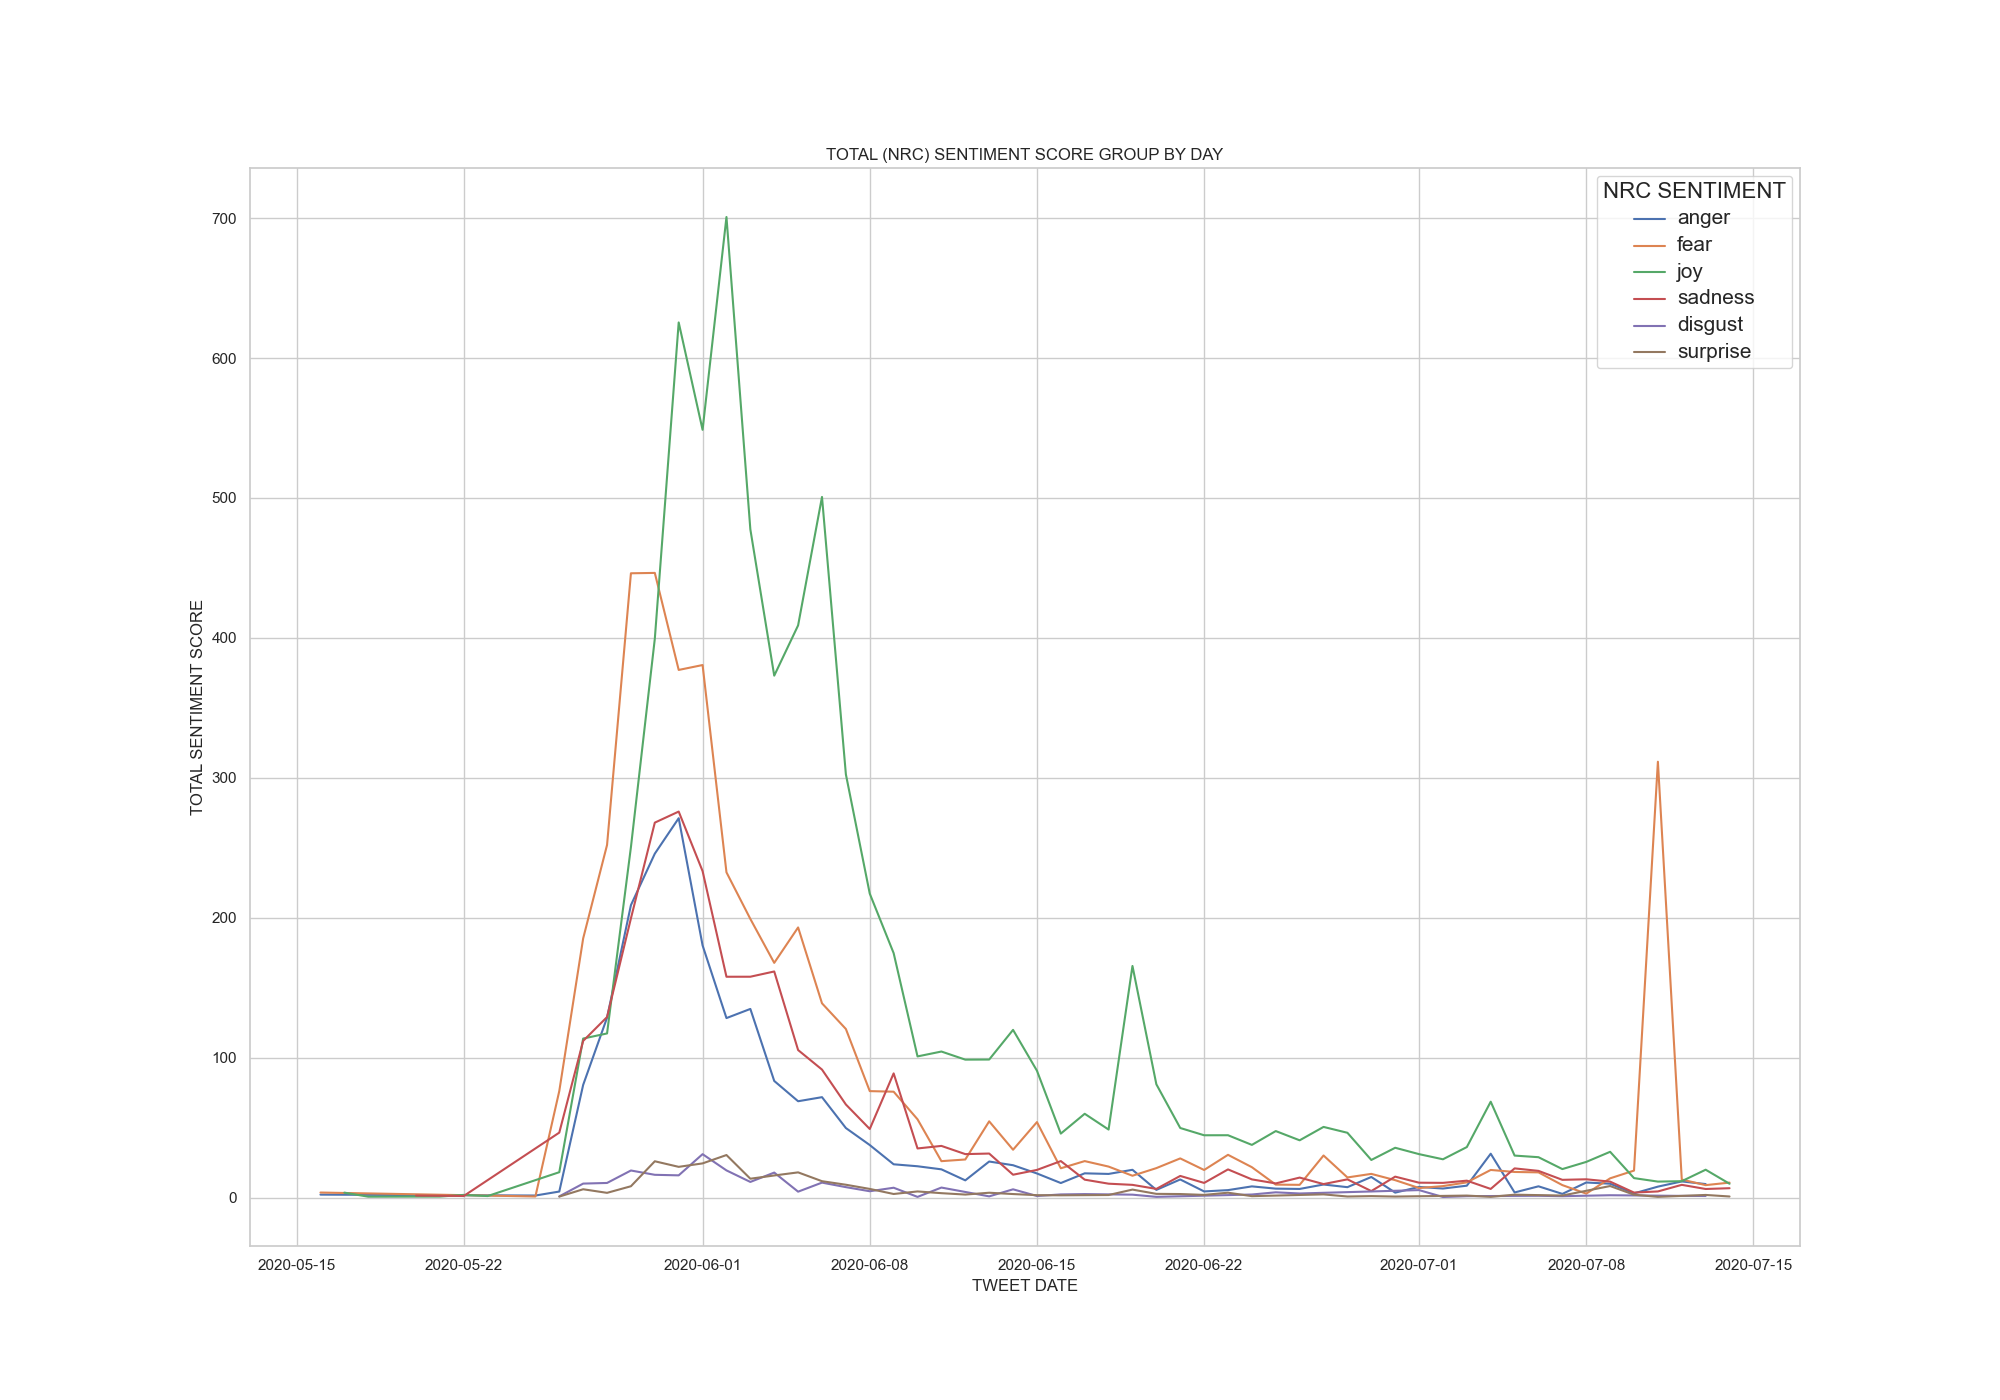
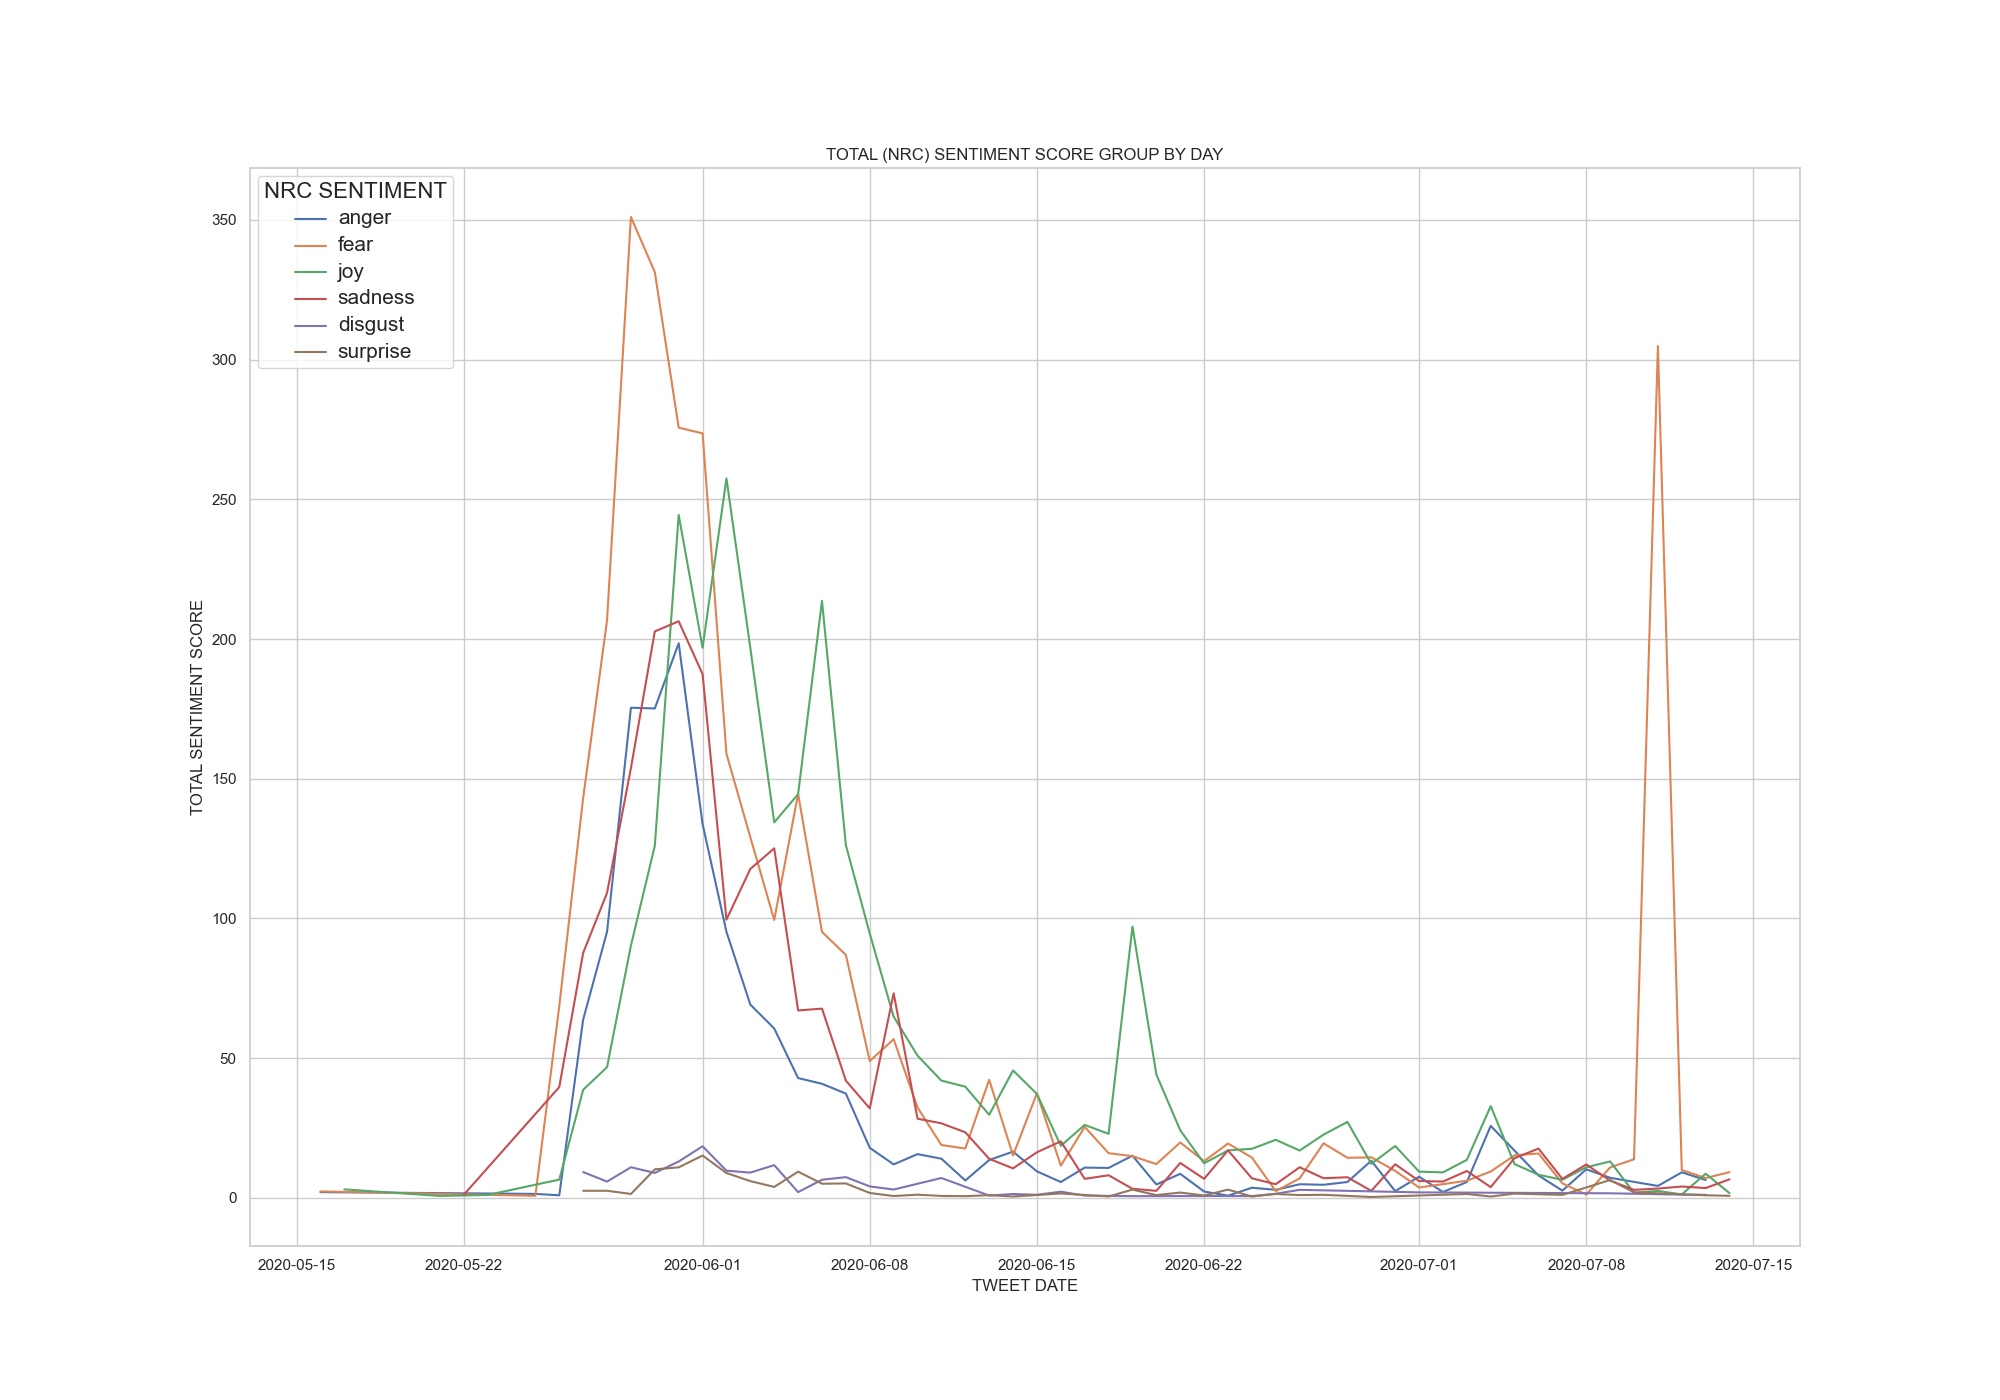
update files and img

diff --git a/Controller/Visualization/LinePlotViz.py b/Controller/Visualization/LinePlotViz.py
@@ -4,6 +4,9 @@ import matplotlib.pyplot as plt
 from Helper import FolderHelper
 
 # SETTING
+from Lexicon.DepecheMood import DepecheMoodController
+from Lexicon.NRC import NrcController
+
 plot_name = "lineplot"
 
 
@@ -58,7 +61,7 @@ def plot(y_attr, x_attr, g_attr, df, y_attr_title, x_attr_title, title, legend_t
     plt.close()
 
 
-def plot_sentiment_day_key_with_period(df, lexicon_name, dir_path, is_standard, selected_key, n_start_date, n_end_date):
+def plot_sentiment_day_key_with_period(df, lexicon_name, dir_path, selected_key, n_start_date, n_end_date, include_standard):
 
     # PARAMETER
     senti_name = "{}_sentiment".format(lexicon_name)
@@ -69,22 +72,35 @@ def plot_sentiment_day_key_with_period(df, lexicon_name, dir_path, is_standard, 
     x_attr_title = "Tweet Date"
     title = "Total ({}) Sentiment {} Group by Day ({} to {})".format(lexicon_name, selected_key, n_start_date, n_end_date)
     legend_title = "{} Sentiment".format(lexicon_name.upper())
-    output_file = plot_folder_path(dir_path, is_standard, lexicon_name) + "{}_lineplot_by_day_by_period".format(selected_key)
 
-    # GENERATE DATAFRAME
+    # FILTER
     start_date = datetime.strptime(n_start_date, "%Y-%m-%d").date()
     end_date = datetime.strptime(n_end_date, "%Y-%m-%d").date()
-    mask = (df['tweet_created_date'] > start_date) & (df['tweet_created_date'] <= end_date)
-    df = df.loc[mask]
-    f_df = df[["tweet_created_date", senti_name, senti_key]].groupby(["tweet_created_date", senti_name], as_index=False).sum()
+    df = df.loc[(df['tweet_created_date'] > start_date) & (df['tweet_created_date'] <= end_date)]
 
-    # CREATE LINE PLOT
-    plot(senti_key, "tweet_created_date", senti_name, f_df, y_attr_title, x_attr_title, title, legend_title, output_file, "linear")
-    plot(senti_key, "tweet_created_date", senti_name, f_df, y_attr_title, x_attr_title, title, legend_title, output_file, "log")
-    plot_facet_grid(senti_key, "tweet_created_date", senti_name, f_df, output_file)
+    # INDIVIDUAL
+    df_i = df[["tweet_created_date", senti_name, senti_key]].groupby(["tweet_created_date", senti_name], as_index=False).sum()
+    output_file = plot_folder_path(dir_path, False, lexicon_name) + "{}_{}_by_day_by_period".format(selected_key, plot_name)
+    plot(senti_key, "tweet_created_date", senti_name, df_i, y_attr_title, x_attr_title, title, legend_title, output_file, "linear")
+    plot(senti_key, "tweet_created_date", senti_name, df_i, y_attr_title, x_attr_title, title, legend_title, output_file, "log")
+    plot_facet_grid(senti_key, "tweet_created_date", senti_name, df_i, output_file)
+
+    # STANDARD
+    if include_standard:
+        if lexicon_name == "nrc":
+            df_s = NrcController.get_standard_model(df)
+        elif lexicon_name == "dpm":
+            df_s = DepecheMoodController.get_standard_model(df)
+
+        # PLOT
+        output_file = plot_folder_path(dir_path, True, lexicon_name) + "{}_{}_by_day_by_period".format(selected_key, plot_name)
+        df_s = df_s[["tweet_created_date", senti_name, senti_key]].groupby(["tweet_created_date", senti_name], as_index=False).sum()
+        plot(senti_key, "tweet_created_date", senti_name, df_s, y_attr_title, x_attr_title, title, legend_title, output_file, "linear")
+        plot(senti_key, "tweet_created_date", senti_name, df_s, y_attr_title, x_attr_title, title, legend_title, output_file, "log")
+        plot_facet_grid(senti_key, "tweet_created_date", senti_name, df_s, output_file)
 
 
-def plot_sentiment_day_key_with_intensity(df, lexicon_name, dir_path, is_standard, selected_key, min_intensity):
+def plot_sentiment_day_key_with_intensity(df, lexicon_name, dir_path, selected_key, min_intensity, include_standard):
 
     # PARAMETER
     senti_name = "{}_sentiment".format(lexicon_name)
@@ -95,17 +111,31 @@ def plot_sentiment_day_key_with_intensity(df, lexicon_name, dir_path, is_standar
     xAttrTitle = "Tweet Date"
     title = "Total ({}) Sentiment {} Group by Day With Intensity ({})".format(lexicon_name, selected_key, min_intensity)
     legend_title = "{} Sentiment".format(lexicon_name.upper())
-    output_file = plot_folder_path(dir_path, is_standard, lexicon_name) + "{}_lineplot_by_day_with_intensity".format(selected_key)
 
-    # GENERATE DATAFRAME
-    f_df = df[["tweet_created_date", senti_name, senti_key]].groupby(["tweet_created_date", senti_name]).sum()
+    # FILTER
+    df = df.loc[(df[senti_key] > min_intensity)]
 
-    # CREATE LINE PLOT
-    plot(senti_key, "tweet_created_date", senti_name, f_df, yAttrTitle, xAttrTitle, title, legend_title, output_file, "linear")
-    plot(senti_key, "tweet_created_date", senti_name, f_df, yAttrTitle, xAttrTitle, title, legend_title, output_file, "log")
+    # INDIVIDUAL
+    output_file = plot_folder_path(dir_path, False, lexicon_name) + "{}_{}_by_day_with_intensity".format(selected_key, plot_name)
+    df_i = df[["tweet_created_date", senti_name, senti_key]].groupby(["tweet_created_date", senti_name]).sum()
+    plot(senti_key, "tweet_created_date", senti_name, df_i, yAttrTitle, xAttrTitle, title, legend_title, output_file, "linear")
+    plot(senti_key, "tweet_created_date", senti_name, df_i, yAttrTitle, xAttrTitle, title, legend_title, output_file, "log")
+
+    # STANDARD
+    if include_standard:
+        if lexicon_name=="nrc":
+            df_s = NrcController.get_standard_model(df)
+        elif lexicon_name == "dpm":
+            df_s = DepecheMoodController.get_standard_model(df)
+
+        # PLOT
+        output_file = plot_folder_path(dir_path, True, lexicon_name) + "{}_{}_by_day_with_intensity".format(selected_key, plot_name)
+        df_s = df_s[["tweet_created_date", senti_name, senti_key]].groupby(["tweet_created_date", senti_name]).sum()
+        plot(senti_key, "tweet_created_date", senti_name, df_s, yAttrTitle, xAttrTitle, title, legend_title, output_file, "linear")
+        plot(senti_key, "tweet_created_date", senti_name, df_s, yAttrTitle, xAttrTitle, title, legend_title, output_file, "log")
 
 
-def plot_sentiment_day_key(df, lexicon_name, dir_path, is_standard, selected_key):
+def plot_sentiment_day_key(df, lexicon_name, dir_path, selected_key, include_standard):
     # PARAMETER
     senti_name = "{}_sentiment".format(lexicon_name)
     senti_key = "{}_sentiment_{}".format(lexicon_name, selected_key)  # SCORE OR COUNT
@@ -115,16 +145,28 @@ def plot_sentiment_day_key(df, lexicon_name, dir_path, is_standard, selected_key
     xAttrTitle = "Tweet Date"
     title = "Total ({}) Sentiment {} Group by Day".format(lexicon_name, selected_key)
     legend_title = "{} Sentiment".format(lexicon_name.upper())
-    output_file = plot_folder_path(dir_path, is_standard, lexicon_name) + "{}_lineplot_by_day".format(selected_key)
 
-    # GENERATE DATAFRAME
-    f_df = df[["tweet_created_date", senti_name, senti_key]].groupby(["tweet_created_date", senti_name]).sum()
+    # INDIVIDUAL
+    output_file = plot_folder_path(dir_path, False, lexicon_name) + "{}_{}_by_day".format(selected_key, plot_name)
+    df_i = df[["tweet_created_date", senti_name, senti_key]].groupby(["tweet_created_date", senti_name]).sum()
+    plot(senti_key, "tweet_created_date", senti_name, df_i, yAttrTitle, xAttrTitle, title, legend_title, output_file, "linear")
+    plot(senti_key, "tweet_created_date", senti_name, df_i, yAttrTitle, xAttrTitle, title, legend_title, output_file, "log")
 
-    # CREATE LINE PLOT
-    plot(senti_key, "tweet_created_date", senti_name, f_df, yAttrTitle, xAttrTitle, title, legend_title, output_file, "linear")
-    plot(senti_key, "tweet_created_date", senti_name, f_df, yAttrTitle, xAttrTitle, title, legend_title, output_file, "log")
+    # STANDARD
+    if include_standard:
 
+        if lexicon_name=="nrc":
+            df_s = NrcController.get_standard_model(df)
+        elif lexicon_name == "dpm":
+            df_s = DepecheMoodController.get_standard_model(df)
 
+        # PLOT
+        output_file = plot_folder_path(dir_path, True, lexicon_name) + "{}_{}_by_day".format(selected_key, plot_name)
+        df_s = df_s[["tweet_created_date", senti_name, senti_key]].groupby(["tweet_created_date", senti_name]).sum()
+        plot(senti_key, "tweet_created_date", senti_name, df_s, yAttrTitle, xAttrTitle, title, legend_title, output_file, "linear")
+        plot(senti_key, "tweet_created_date", senti_name, df_s, yAttrTitle, xAttrTitle, title, legend_title, output_file, "log")
+
+'''
 def plot_sentiment_hour_key_with_period(df, lexicon_name, dir_path, is_standard, selected_key, n_start_date, n_end_date):
 
     # PARAMETER
@@ -190,37 +232,51 @@ def plot_sentiment_hour_key(df, lexicon_name, dir_path, is_standard, selected_ke
 
     # CREATE LINE PLOT
     plot(senti_key, "tweet_created_hour", senti_name, f_df, yAttrTitle, xAttrTitle, title, legend_title, output_file, "linear")
+'''
 
 
 def reset_plot_folder(dir_path, lexicon_name):
 
-    standard_fdr = "{}img/standard/{}".format(dir_path, plot_name)
-    individual_fdr = "{}img/individual/{}".format(dir_path, plot_name)
+    # MAIN FOLDER (CREATE IF NOT EXIST)
+    standard_fdr = "{}img/standard".format(dir_path)
+    individual_fdr = "{}img/individual".format(dir_path)
+    FolderHelper.create_folder(standard_fdr)
+    FolderHelper.create_folder(individual_fdr)
 
-    #FolderHelper.reset_folder(standard_fdr)
-    #FolderHelper.reset_folder(individual_fdr)
+    # LEXICON FOLDER (RESET)
+    standard_fdr = standard_fdr + "/{}".format(plot_name)
+    individual_fdr = individual_fdr + "/{}".format(plot_name)
+    FolderHelper.create_folder(standard_fdr)
+    FolderHelper.create_folder(individual_fdr)
 
-    FolderHelper.reset_folder("{}/{}".format(standard_fdr, lexicon_name))
-    FolderHelper.reset_folder("{}/{}".format(individual_fdr, lexicon_name))
+    # LEXICON FOLDER (RESET)
+    standard_fdr = standard_fdr + "/{}".format(lexicon_name)
+    individual_fdr = individual_fdr + "/{}".format(lexicon_name)
+    FolderHelper.reset_folder(standard_fdr)
+    FolderHelper.reset_folder(individual_fdr)
 
 
-def plot_sentiment(df, lexicon_name, dir_path, is_standard, min_intensity, start_date, end_date):
+def plot_sentiment(df, lexicon_name, dir_path, min_intensity, start_date, end_date, include_count, include_standard):
 
     # RESET FOLDER
     reset_plot_folder(dir_path, lexicon_name)
 
     # LINE PLOT BY DAY
-    plot_sentiment_day_key(df, lexicon_name, dir_path, is_standard, "score")
-    plot_sentiment_day_key(df, lexicon_name, dir_path, is_standard, "count")
-    plot_sentiment_day_key_with_intensity(df, lexicon_name, dir_path, is_standard, "score", min_intensity)
-    plot_sentiment_day_key_with_intensity(df, lexicon_name, dir_path, is_standard, "count", min_intensity)
-    plot_sentiment_day_key_with_period(df, lexicon_name, dir_path, is_standard, "score", start_date, end_date)
-    plot_sentiment_day_key_with_period(df, lexicon_name, dir_path, is_standard, "count", start_date, end_date)
+    plot_sentiment_day_key(df, lexicon_name, dir_path, "score", include_standard)
+    plot_sentiment_day_key_with_intensity(df, lexicon_name, dir_path, "score", min_intensity, include_standard)
+    plot_sentiment_day_key_with_period(df, lexicon_name, dir_path, "score", start_date, end_date, include_standard)
 
+    if include_count:
+        plot_sentiment_day_key(df, lexicon_name, dir_path, "count", include_standard)
+        plot_sentiment_day_key_with_intensity(df, lexicon_name, dir_path, "count", min_intensity, include_standard)
+        plot_sentiment_day_key_with_period(df, lexicon_name, dir_path, "count", start_date, end_date, include_standard)
+
+    '''
     # LINE PLOT BY HOUR
-    plot_sentiment_hour_key(df, lexicon_name, dir_path, is_standard, "score")
-    plot_sentiment_hour_key(df, lexicon_name, dir_path, is_standard, "count")
-    plot_sentiment_hour_key_with_intensity(df, lexicon_name, dir_path, is_standard, "score", min_intensity)
-    plot_sentiment_hour_key_with_intensity(df, lexicon_name, dir_path, is_standard, "count", min_intensity)
-    plot_sentiment_hour_key_with_period(df, lexicon_name, dir_path, is_standard, "score", start_date, end_date)
-    plot_sentiment_hour_key_with_period(df, lexicon_name, dir_path, is_standard, "count", start_date, end_date)
+    plot_sentiment_hour_key(df, lexicon_name, dir_path, "score")
+    plot_sentiment_hour_key(df, lexicon_name, dir_path, "count")
+    plot_sentiment_hour_key_with_intensity(df, lexicon_name, dir_path, "score", min_intensity)
+    plot_sentiment_hour_key_with_intensity(df, lexicon_name, dir_path, "count", min_intensity)
+    plot_sentiment_hour_key_with_period(df, lexicon_name, dir_path, "score", start_date, end_date)
+    plot_sentiment_hour_key_with_period(df, lexicon_name, dir_path, "count", start_date, end_date)
+    '''

diff --git a/dataset/blm_minesota/3_analysis.py b/dataset/blm_minesota/3_analysis.py
@@ -8,14 +8,13 @@ from Controller.Visualization import LinePlotViz, KdePlotViz
 from Helper import DateHelper
 
 # SETTING
-isStandard = True
 date_format = "%Y-%m-%d %H:%M:%S"
 min_intensity = 1.2
 dir_path = "C:/workspace/SocialMovementSentiment/dataset/blm_minesota/"
 key_focus = "score"
 mood_set = "individual"
 master_dataset_file = dir_path+"dataset.csv"
-sentiment_dataset_file = "{}04-post-sentiment-{}-dataset.csv".format(dir_path, str(isStandard))
+sentiment_dataset_file = "{}04-post-sentiment-False-dataset.csv".format(dir_path)
 focus_from_date = "2020-05-23"
 focus_to_date = "2020-06-05"
 
@@ -27,6 +26,7 @@ ori_df.drop(['permalink', 'username', 'to_person', 'mentions', 'hashtags', 'geo'
 sentiment_df = pd.read_csv(sentiment_dataset_file, sep=",")
 df = pd.merge(sentiment_df, ori_df, on="text")
 
+
 # PREPARE THE ATTRIBUTE
 df['tweet_created_date'] = df['tweet_created_dt'].apply(lambda x: datetime.strptime(str(x), date_format).date())
 df['tweet_created_hour'] = df['tweet_created_dt'].apply(lambda x: DateHelper.get_date_with_hour(str(x), date_format))
@@ -35,8 +35,11 @@ df['tweet_created_hour'] = df['tweet_created_dt'].apply(lambda x: DateHelper.get
 # SCORE AND COUNT COMPARISON
 l_sentiment_date = "tweet_created_date"
 
+include_count = False
+include_standard = True
+
 # LINE PLOT
-#LinePlotViz.plot_sentiment(df, "nrc", dir_path, isStandard, min_intensity, focus_from_date, focus_to_date)
-#LinePlotViz.plot_sentiment(df, "dpm", dir_path, isStandard, min_intensity, focus_from_date, focus_to_date)
+LinePlotViz.plot_sentiment(df, "nrc", dir_path, min_intensity, focus_from_date, focus_to_date, include_count, include_standard)
+LinePlotViz.plot_sentiment(df, "dpm", dir_path, min_intensity, focus_from_date, focus_to_date, include_count, include_standard)
 #KdePlotViz.plot_sentiment(df, "nrc", dir_path, isStandard, min_intensity, focus_from_date, focus_to_date)
 #KdePlotViz.plot_sentiment(df, "dpm", dir_path, isStandard, min_intensity, focus_from_date, focus_to_date)

diff --git a/Lexicon/NRC/NrcController.py b/Lexicon/NRC/NrcController.py
@@ -136,8 +136,6 @@ def run(df, is_standard_model):
         df.loc[index, 'nrc_sentiment_count'] = emotion_info.get(key='nrc_sentiment_count')
         df.loc[index, 'nrc_sentiment_score'] = emotion_info.get(key='nrc_sentiment_score')
 
-       #print("{} >> Tweet: {}  ({})".format(emotion_info.get(key='nrc_sentiment'), row['text'], emotion_info.get(key='nrc_sentiment_score')))
-
     FileController.save_df_to_csv("tmp/NRC-processed_dataset.csv", df)
 
     if is_standard_model:
@@ -149,4 +147,10 @@ def run(df, is_standard_model):
                  'fear', 'fear_score', 'joy', 'joy_score', 'sadness', 'sadness_score',
                  'surprise', 'surprise_score', 'trust', 'trust_score'], axis=1, inplace=True)
 
+    return df
+
+
+def get_standard_model(df):
+    mask = ((df['nrc_sentiment'] != "trust") & (df['nrc_sentiment'] != "anticipation"))
+    df = df.loc[mask]
     return df

diff --git a/Lexicon/DepecheMood/DepecheMoodController.py b/Lexicon/DepecheMood/DepecheMoodController.py
@@ -177,3 +177,22 @@ def run(df, is_standard_model):
                  'inspired', 'inspired_score', 'sad', 'sad_score'], axis=1, inplace=True)
 
     return df
+
+
+def combine_joy(x):
+
+    if x == "happy" or x == "amused":
+        return "joy"
+
+    return x
+
+def get_standard_model(df):
+
+    # EXCLUDE DON"T CARE
+    mask = (df['dpm_sentiment'] != "dontcare")
+    df = df.loc[mask]
+
+    # COMBINE AMUSED AND HAPPY
+    df['dpm_sentiment'] = df['dpm_sentiment'].apply(lambda x: combine_joy(str(x)))
+
+    return df

diff --git a/Lexicon/StandardModel.py b/Lexicon/StandardModel.py
@@ -6,6 +6,7 @@ model_moods = ['anger', 'disgust', 'fear', 'joy', 'sadness', 'surprise']
 mood_score_model = ['anger', 'anger_score', 'disgust', 'disgust_score', 'fear', 'fear_score', 'joy', 'joy_score',
                     'sadness', 'sadness_score', 'surprise', 'surprise_score']
 
+
 def set_standard_model(
         anger, anger_score,
         disgust, disgust_score,
